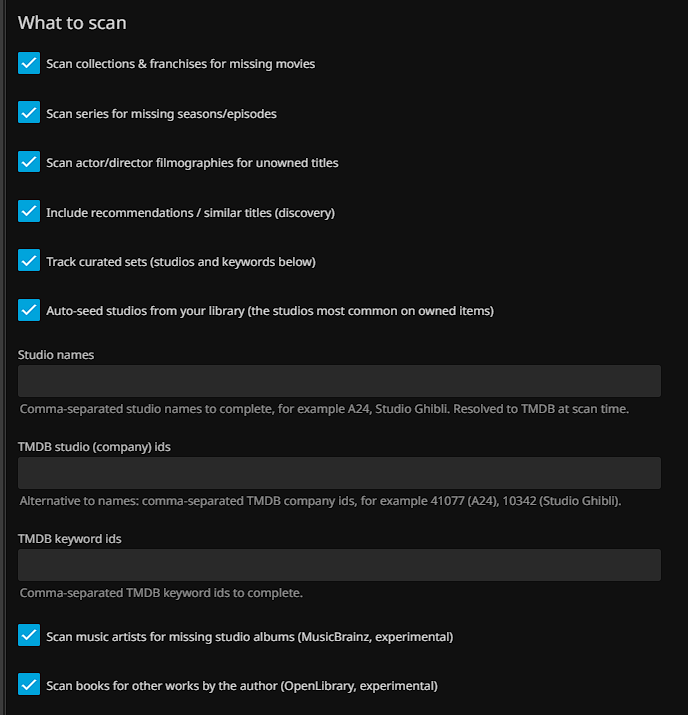
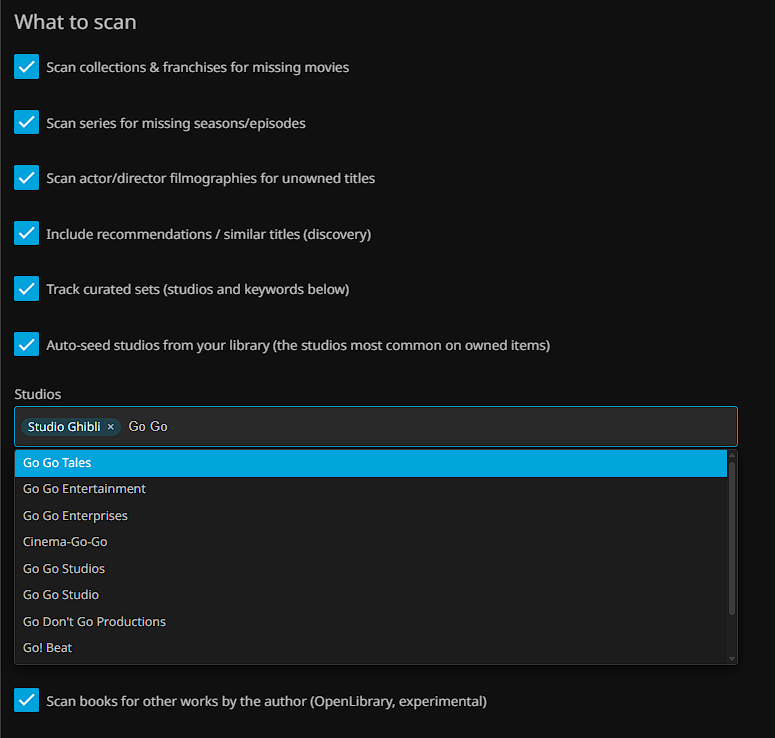
Document the Diagnose action; refresh the settings screenshot
Add a Diagnose section to the report guide (with a screenshot) and a
per-row Diagnose bullet, covering the per-gap "why is this missing"
verdict and the library-wide identification audit. Refresh
config-what-to-scan.png for the curated-set chip picker.

Changed region(s): [[0.0, 0.0, 0.9767, 1.0]]

diff --git a/docs/report-guide.md b/docs/report-guide.md
@@ -126,6 +126,8 @@ Each gap row carries links and actions. Which appear depends on the gap's kind a
   creator) in a new tab, scoped to the right library type (movies, shows, music, books, music videos,
   or box sets; a creator searches everywhere). Handy to confirm you do not already hold it under another
   name, or to find it on a federated server.
+- **Diagnose** (movie and show rows): explains why the row is reported missing, most often an owned copy
+  under the wrong id. See [Diagnose](#diagnose-is-it-really-missing) below.
 - **Where to watch / Watch**: streaming-availability links. If a row has not been looked up yet, the
   button fetches it on demand; the background **Look up where to watch** pass does many at once.
 - **Mint** (movies, when virtual items are enabled): creates a tagged, pathless virtual placeholder so
@@ -143,6 +145,22 @@ Each gap row carries links and actions. Which appear depends on the gap's kind a
 Resolving a gap can carry an optional note (for example why it is not really missing):
 
 ![Dismissing a gap with an optional note](screenshots/report-resolve-modal.png)
+
+## Diagnose: is it really missing?
+
+![Diagnosing why a gap is reported missing](screenshots/diagnose.png)
+
+On a movie or show row, **Diagnose** explains why it is reported missing. The popup lays the gap and the
+owned items that look like it (matched by title, or already carrying the gap's id) side by side, and leads
+with a plain verdict: owned under the wrong id, an owned item already holds this id, the gap looks stale, a
+wrong kind of id, or genuinely missing. It corroborates by IMDb and TheTVDB id, so it still catches a title
+you own under a localized name, and it weighs both title and year, so a remake that shares a name with
+something you own is not mistaken for it. A **Deeper analysis** button confirms against the source provider
+and fills in any missing ids.
+
+The report also runs a library-wide **identification audit**: the same check across your whole library,
+downloaded as Markdown grouped by reason, with a link on each finding back into Jellyfin so you can fix the
+metadata and rescan.
 
 ## Minting several at once
 